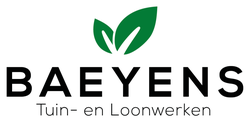
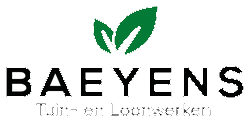
Klantenlogo's met transparante achtergrond, altijd meteen geladen
Claude-Session: https://claude.ai/code/session_01Hds2Xf6E6Azft16a6f4h7E

diff --git a/site/index.html b/site/index.html
@@ -136,7 +136,7 @@ header.site.scrolled{box-shadow:0 1px 0 var(--line)}
 .marquee:hover .track{animation-play-state:paused}
 .set{display:flex;align-items:center;gap:clamp(40px,5vw,72px);padding-right:clamp(40px,5vw,72px)}
 .cl{position:relative;display:flex;align-items:center;justify-content:center;height:84px;min-width:110px;text-decoration:none;color:var(--black)}
-.cl img{max-height:76px;max-width:170px;object-fit:contain;filter:grayscale(1);mix-blend-mode:multiply;opacity:.8;transition:filter .2s,opacity .2s}
+.cl img{max-height:64px;max-width:180px;object-fit:contain;filter:grayscale(1);opacity:.75;transition:filter .2s,opacity .2s}
 a.cl:hover img{filter:none;opacity:1}
 .cl .nm{font-family:var(--title);font-weight:800;font-size:1.05rem;white-space:nowrap;letter-spacing:.01em}
 a.cl:hover .nm{color:var(--red)}
@@ -506,7 +506,7 @@ function pageVisie(){
 function clientsBand(){
   const item = ([n,img,url]) => {
     const tag = url ? "a" : "span", attrs = url ? ` href="${esc(url)}" target="_blank" rel="noopener"` : "";
-    return `<${tag} class="cl"${attrs} title="${esc(n)}"><img src="${esc(img)}"${altAttr(withOld(img))} alt="${esc(n)}" loading="lazy" onload="this.parentNode.classList.add('loaded')" onerror="nextSrc(this)||this.remove()"><span class="nm">${esc(n)}</span></${tag}>`;
+    return `<${tag} class="cl"${attrs} title="${esc(n)}"><img src="${esc(img)}"${altAttr(withOld(img))} alt="${esc(n)}" onload="this.parentNode.classList.add('loaded')" onerror="nextSrc(this)||this.remove()"><span class="nm">${esc(n)}</span></${tag}>`;
   };
   const set = KLANTEN.map(item).join("");
   return `<section class="clients-band" id="klanten" aria-labelledby="kl-title">
